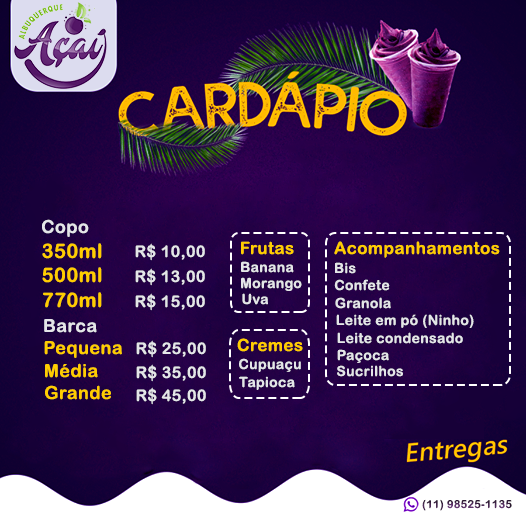
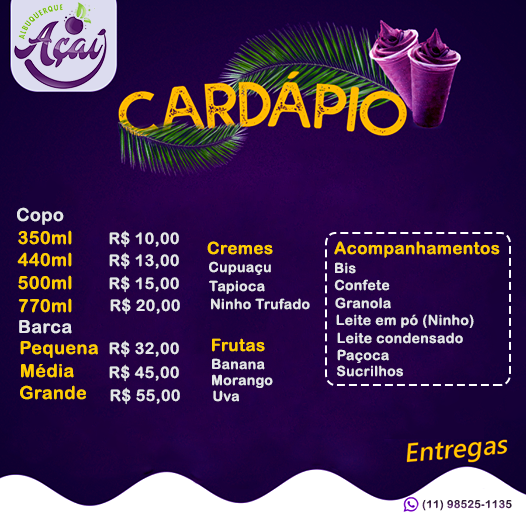
atualizando cards e link

Changed region(s): [[0.0304, 0.3954, 0.6084, 0.7909]]

diff --git a/src/app/Cards/cards.component.html b/src/app/Cards/cards.component.html
@@ -7,10 +7,10 @@
             <div class="card">
               <img src="../../assets/Imagens/770ml.jpg" class="card-img-top">
               <div class="card-body">
-                <h5 class="card-title">Copão 770ml -<span> R$15,00</span></h5>
+                <h5 class="card-title">Copão 770ml -<span> R$20,00</span></h5>
                 <p class="card-text">Nosso copão de 770ml é um delícia, você mesmo que vai montar escolhendo às frtuas,
                   cremes e acompanhamentos.</p>
-                <a href="https://api.whatsapp.com/send?phone=5511985251135&text=Ol%C3%A1%2C+agradecemos+pelo+seu+contato%21%0D%0AComo+podemos+te+ajudar+%3F"
+                <a href="https://linktr.ee/albuquerqueacai"
                   class="btn btn-primary">Comprar agora</a>
               </div>
             </div>
@@ -19,10 +19,10 @@
             <div class="card">
               <img src="../../assets/Imagens/770ml_2.jpg" class="card-img-top">
               <div class="card-body">
-                <h5 class="card-title">Copão 550ml -<span> R$13,00</span></h5>
+                <h5 class="card-title">Copão 550ml -<span> R$15,00</span></h5>
                 <p class="card-text">Nosso copão de 550ml é um delícia, você mesmo que vai montar escolhendo às frtuas,
                   cremes e acompanhamentos.</p>
-                <a href="https://api.whatsapp.com/send?phone=5511985251135&text=Ol%C3%A1%2C+agradecemos+pelo+seu+contato%21%0D%0AComo+podemos+te+ajudar+%3F"
+                <a href="https://linktr.ee/albuquerqueacai"
                   class="btn btn-primary">Comprar agora</a>
               </div>
             </div>
@@ -34,7 +34,7 @@
                 <h5 class="card-title">Copão 350ml -<span> R$10,00</span></h5>
                 <p class="card-text">Nosso copão de 350ml é um delícia, você mesmo que vai montar escolhendo às frtuas,
                   cremes e acompanhamentos.</p>
-                <a href="https://api.whatsapp.com/send?phone=5511985251135&text=Ol%C3%A1%2C+agradecemos+pelo+seu+contato%21%0D%0AComo+podemos+te+ajudar+%3F"
+                <a href="https://linktr.ee/albuquerqueacai"
                   class="btn btn-primary">Comprar agora</a>
               </div>
             </div>
@@ -43,12 +43,12 @@
         <div class="row">
           <div class="col-sm-4 col-md-4 col_ajuste">
             <div class="card">
-              <img src="../../assets/Imagens/barcaPequena.jpg" class="card-img-top">
+              <img src="../../assets/Imagens/barcaPequena.jpg" class="card-img-top" style="object-fit:cover">
               <div class="card-body">
-                <h5 class="card-title">Barca -<span> R$25,00</span></h5>
+                <h5 class="card-title">Barca -<span> R$33,00 à 55,00</span></h5>
                 <p class="card-text">Temos três tamanhos de barcas "pequena", "média" e "grande", consulte o nosso
                   cardápio.</p>
-                <a href="https://api.whatsapp.com/send?phone=5511985251135&text=Ol%C3%A1%2C+agradecemos+pelo+seu+contato%21%0D%0AComo+podemos+te+ajudar+%3F"
+                <a href="https://linktr.ee/albuquerqueacai"
                   class="btn btn-primary">Comprar agora</a>
               </div>
             </div>
@@ -57,22 +57,22 @@
             <div class="card">
               <img src="../../assets/Imagens/barcaPequena_2.jpg" class="card-img-top">
               <div class="card-body">
-                <h5 class="card-title">Barca -<span> R$25,00</span></h5>
+                <h5 class="card-title">Barca -<span> R$33,00 à 55,00</span></h5>
                 <p class="card-text">Temos três tamanhos de barcas "pequena", "média" e "grande", consulte o nosso
                   cardápio.</p>
-                <a href="https://api.whatsapp.com/send?phone=5511985251135&text=Ol%C3%A1%2C+agradecemos+pelo+seu+contato%21%0D%0AComo+podemos+te+ajudar+%3F"
+                <a href="https://linktr.ee/albuquerqueacai"
                   class="btn btn-primary">Comprar agora</a>
               </div>
             </div>
           </div>
           <div class="col-sm-4 col-md-4 col_ajuste">
             <div class="card">
-              <img src="../../assets/Imagens/500ml.jpg" class="card-img-top">
+              <img src="../../assets/Imagens/500ml.jpg" class="card-img-top" style="object-fit:cover">
               <div class="card-body">
-                <h5 class="card-title">Copão de açai puro -<span> R$15,00</span></h5>
+                <h5 class="card-title">Copão 770ml -<span> R$20,00</span></h5>
                 <p class="card-text">Foto do nosso copão de 770ml com açai e frutas "faltou creme ?", consulte abaixo o
                   nosso cardápio.</p>
-                <a href="https://api.whatsapp.com/send?phone=5511985251135&text=Ol%C3%A1%2C+agradecemos+pelo+seu+contato%21%0D%0AComo+podemos+te+ajudar+%3F"
+                <a href="https://linktr.ee/albuquerqueacai"
                   class="btn btn-primary">Comprar agora</a>
               </div>
             </div>
